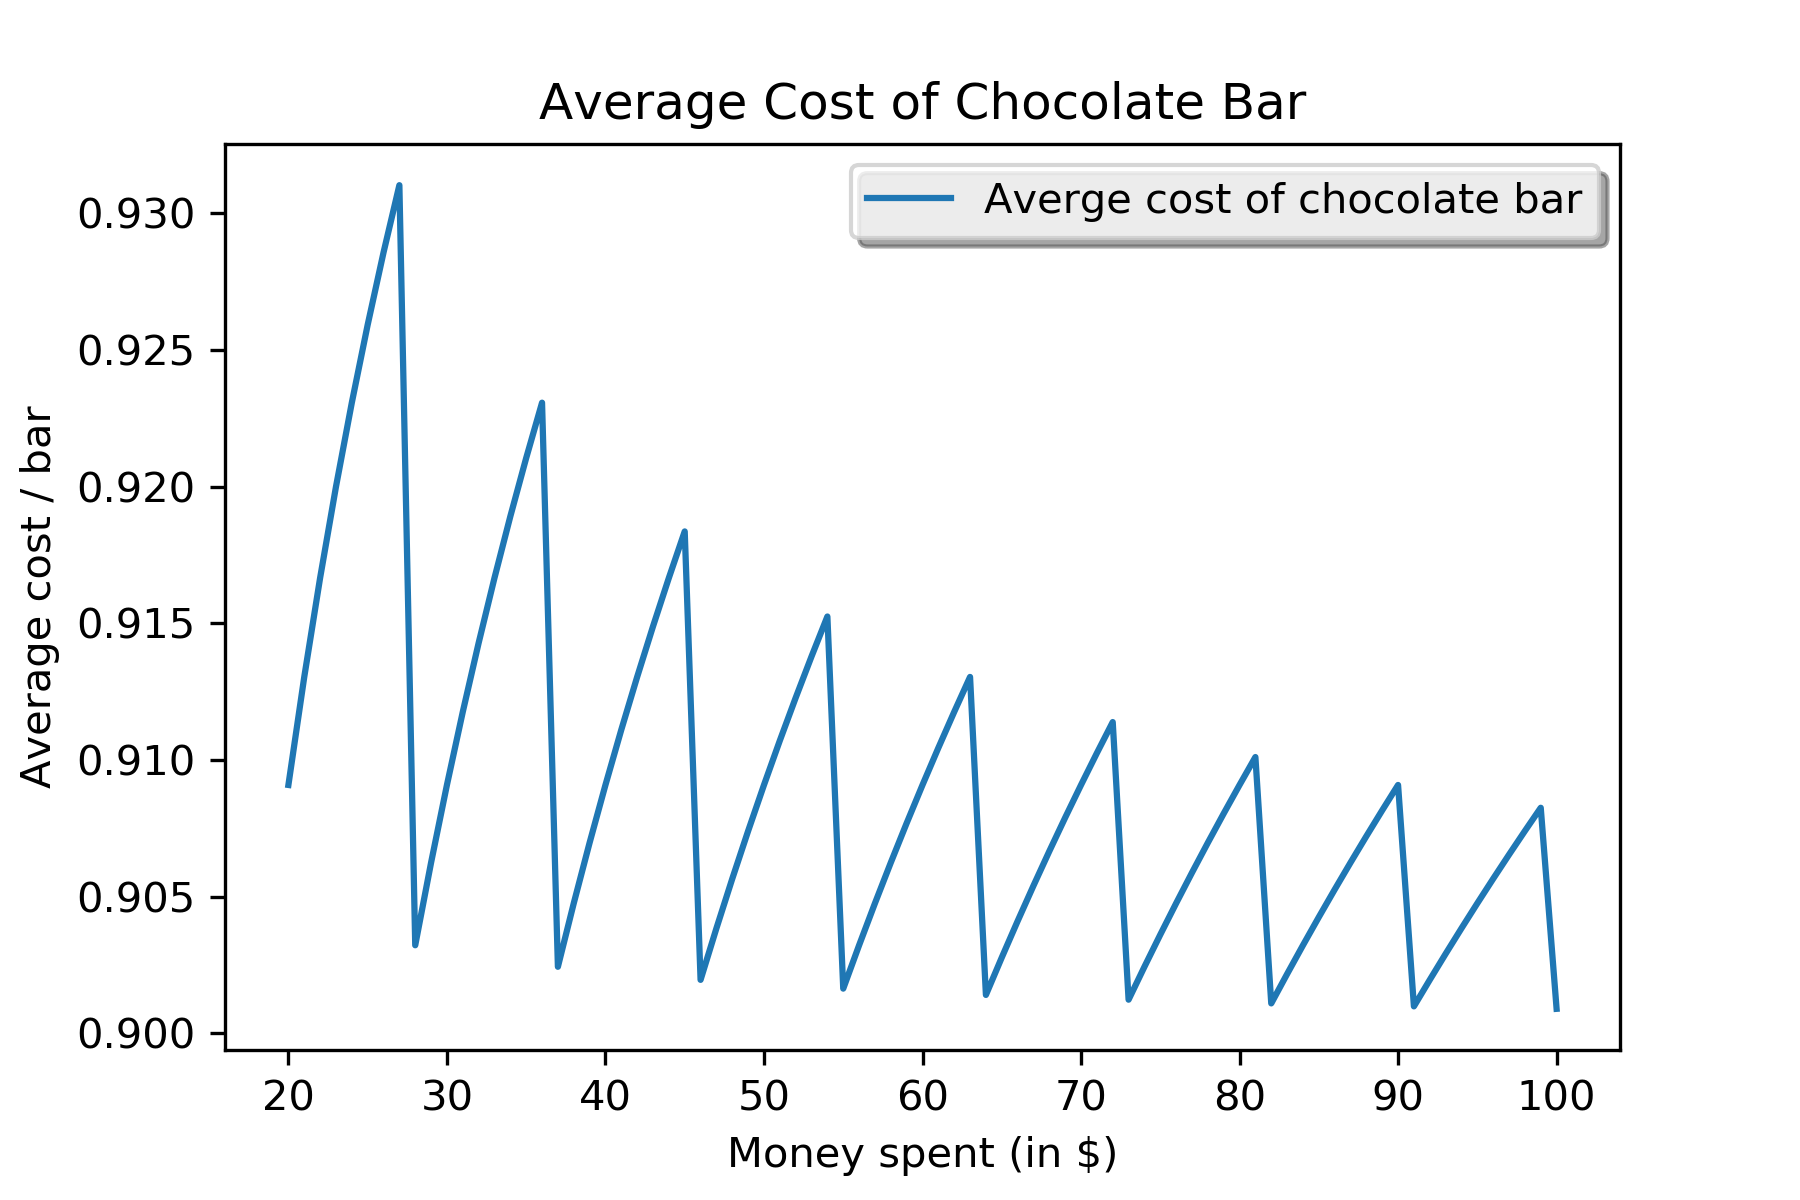
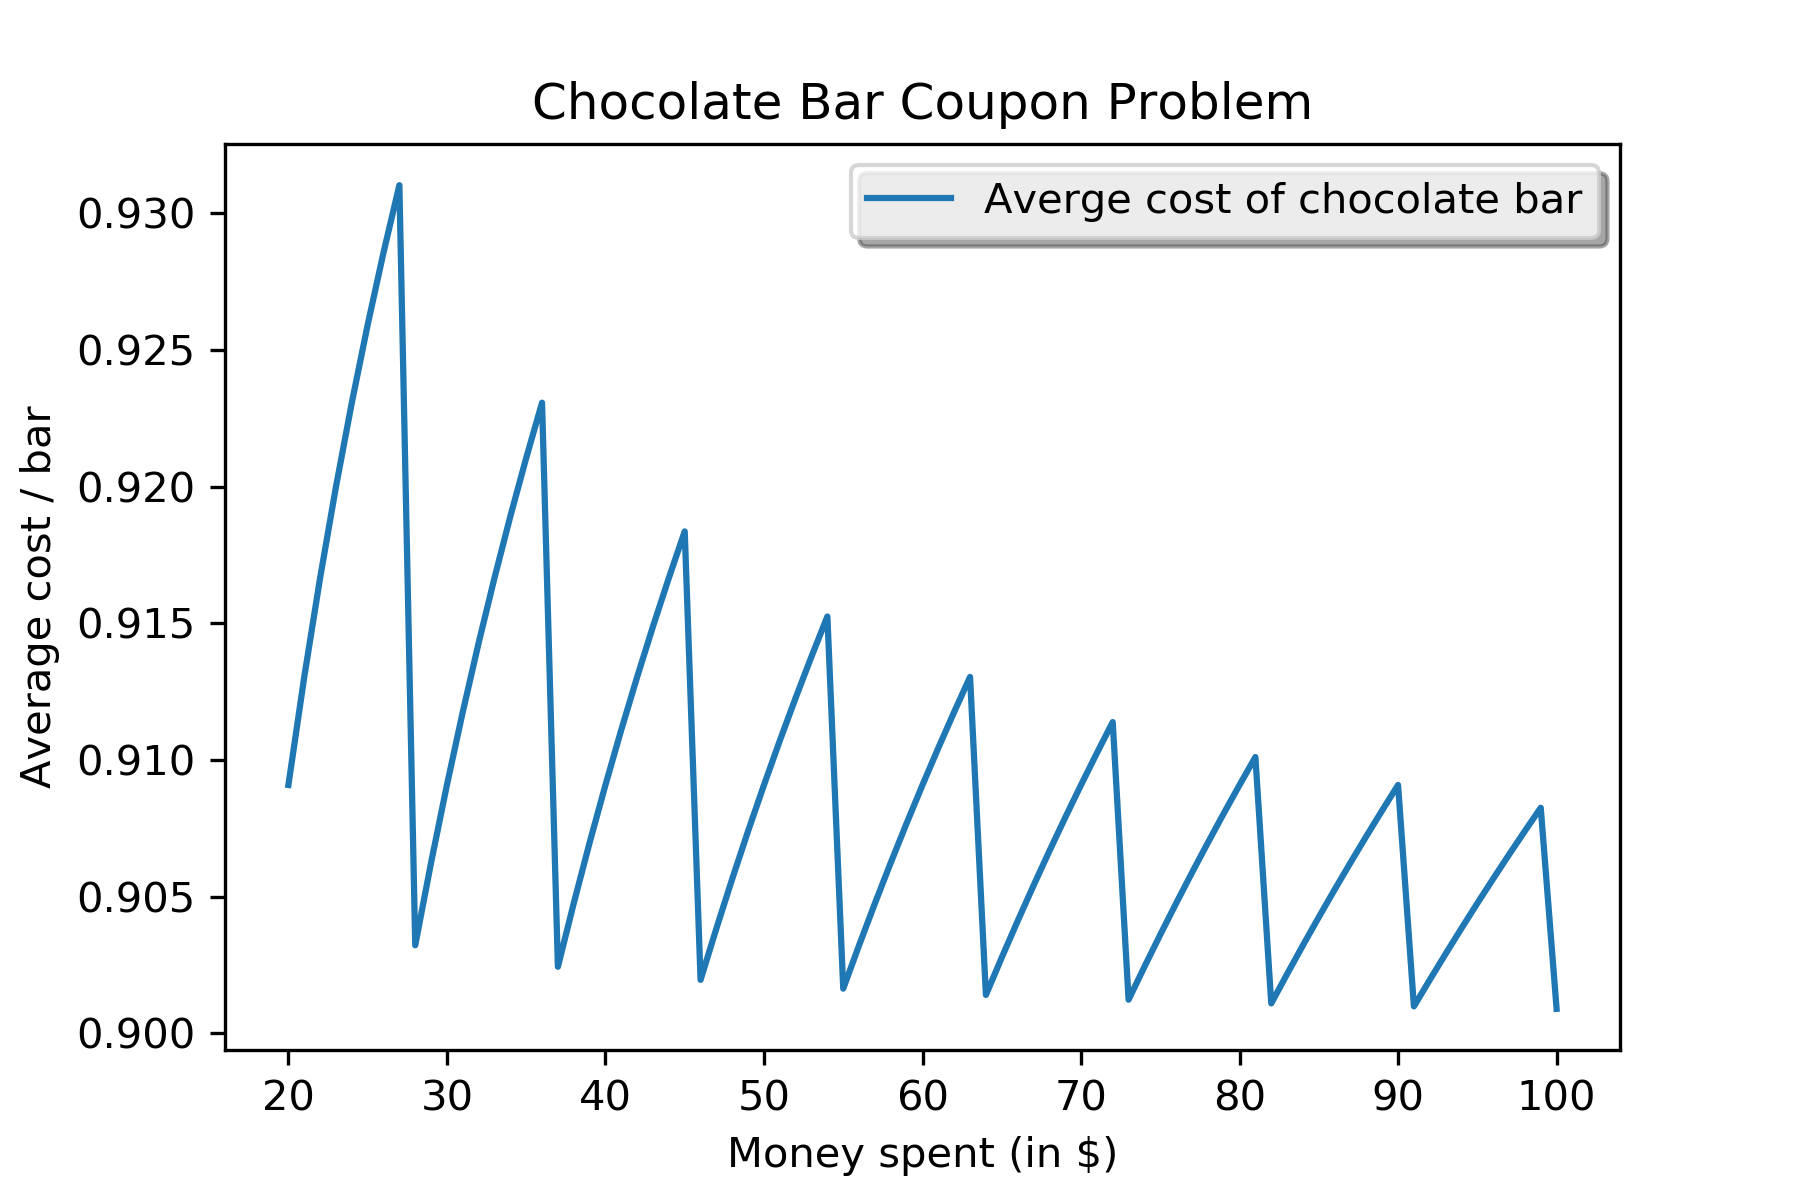
Add files via upload

Changed region(s): [[0.28, 0.0617, 0.7467, 0.1233]]

diff --git a/DonGass_hw9_task1.py b/DonGass_hw9_task1.py
@@ -15,7 +15,7 @@ total_cost = [(x/total_bars[i]) for i, x in enumerate(money_spent)]
 plt.plot(money_spent, total_cost, label="Averge cost of chocolate bar")
 plt.xlabel("Money spent (in $)")
 plt.ylabel("Average cost / bar")
-plt.title("Average Cost of Chocolate Bar")
+plt.title("Chocolate Bar Coupon Problem")
 plt.legend(shadow=True, loc="upper right")
 plt.savefig("task1_plot.png", dpi=300)
 
